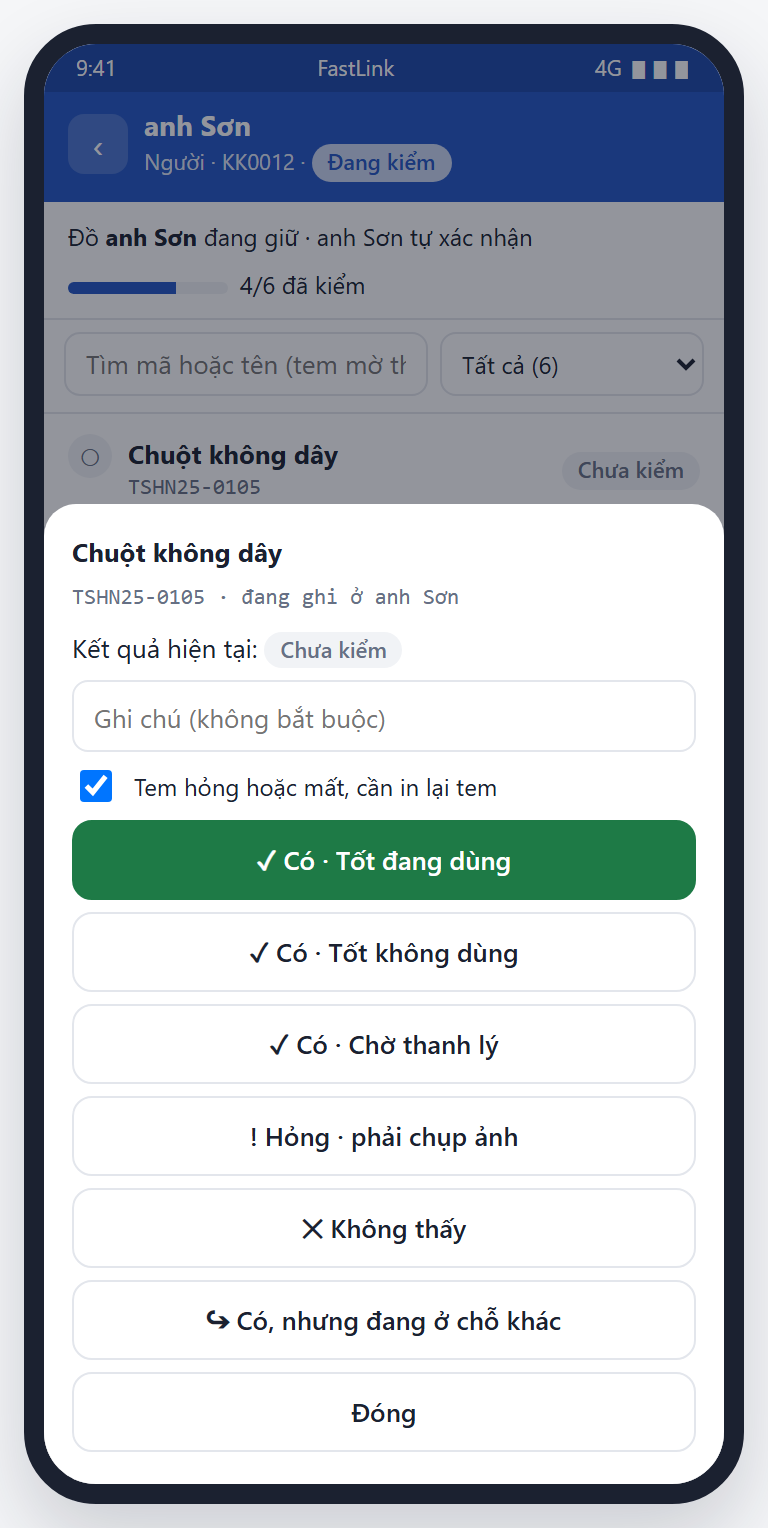
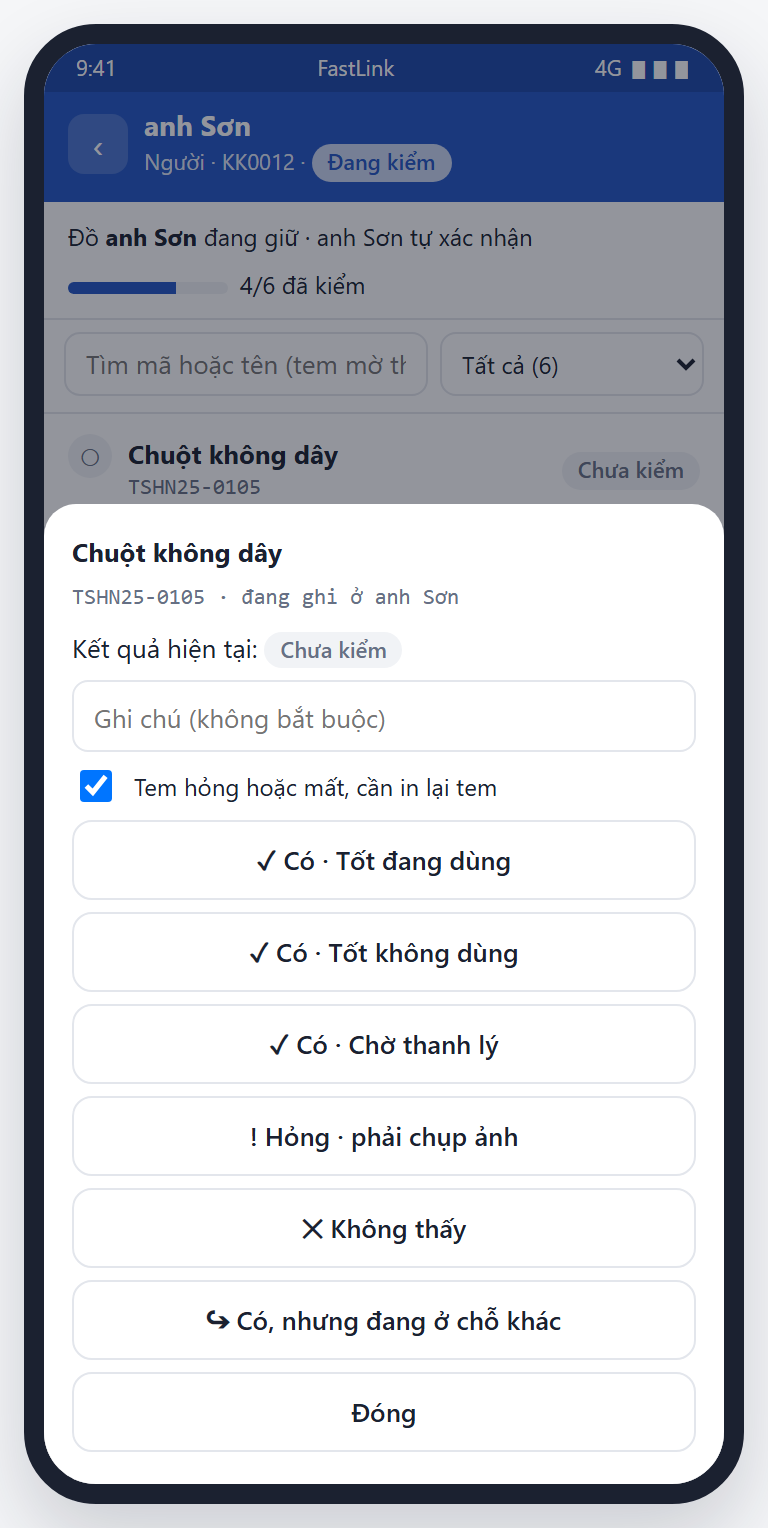
App minh hoạ: tô nút kết quả đang chọn của món
Mở một món thì nút khớp kết quả và tình trạng hiện tại được tô (có dấu ●),
món chưa kiểm thì không tô nút nào. Trước đây nút "Có · Tốt đang dùng" luôn tô
xanh dù món đang ở kết quả khác.

Changed region(s): [[0.0938, 0.5229, 0.9062, 0.6152]]

diff --git a/minh-hoa-tao-dot-kiem-ke.html b/minh-hoa-tao-dot-kiem-ke.html
@@ -141,6 +141,8 @@ h3{font-size:13px;margin:16px 0 8px}
 .ph-btn.okb{background:var(--ok);border-color:var(--ok);color:#fff}
 .ph-btn.pri:hover,.ph-btn.okb:hover{filter:brightness(1.08)}
 .ph-btn:disabled{opacity:.5;cursor:not-allowed;filter:none}
+.ph-btn.on{background:var(--primary);border-color:var(--primary);color:#fff}
+.ph-btn.on:hover{filter:brightness(1.08)}
 .ph-seg{display:flex;gap:4px;padding:8px 10px 6px;background:#fff;border-bottom:1px solid var(--border);overflow-x:auto}
 .ph-seg button{border:1px solid var(--border);background:#fff;border-radius:999px;padding:3px 10px;font-size:12px;cursor:pointer;white-space:nowrap}
 .ph-seg button.on{background:var(--primary);border-color:var(--primary);color:#fff}
@@ -997,14 +999,16 @@ function veApp() {
       + '<p class="hint">Bấm vào một món để đổi kết quả hoặc tình trạng.</p>';
     const i = monApp();
     if (i) {
-      const nut = (kq, tinh, txt, cls) => `<button class="ph-btn ${cls || ''}" data-act="a-kq" data-kq="${kq}" data-tinh="${tinh}">${txt}</button>`;
+      // nút khớp kết quả + tình trạng hiện tại của món thì được tô (đang chọn); món chưa kiểm thì không tô nút nào
+      const dangChon = (kq, tinh) => i.kq === kq && (kq !== 'CO' || (i.tinhTrang || 'Tốt đang dùng') === tinh);
+      const nut = (kq, tinh, txt) => { const on = dangChon(kq, tinh); return `<button class="ph-btn ${on ? 'on' : ''}" aria-pressed="${on}" data-act="a-kq" data-kq="${kq}" data-tinh="${tinh}">${on ? '● ' : ''}${txt}</button>`; };
       let noi = '';
       if (i.nguon === 'THEM') noi = `<div class="ph-sub">${esc(i.vet)}</div><p class="ph-sub" style="margin:0">Món thêm từ chỗ khác: chỉ ghi nhận, không đổi người giữ.</p>${sua ? '<button class="ph-btn" data-act="a-bo-them">Bỏ khỏi phần này (thêm nhầm)</button>' : ''}`;
       else if (!sua) noi = '<p class="ph-sub" style="margin:0">Phần đã xong, chỉ xem.</p>';
       else if (A.hong) noi = `<div class="ph-card bad" style="margin:0">Hỏng thì <b>bắt buộc chụp ảnh</b> trước khi lưu.</div><button class="ph-btn" data-act="a-chup">${A.anh ? '✓ Đã chụp 1 ảnh · chụp lại' : '📷 Chụp ảnh (giả lập)'}</button><button class="ph-btn" style="background:var(--bad);border-color:var(--bad);color:#fff" data-act="a-luu-hong" ${A.anh ? '' : 'disabled'}>Lưu: Hỏng</button><button class="ph-btn" data-act="a-hong-huy">← Chọn kết quả khác</button>`;
       else noi = `<input class="input" id="appGhiChu" value="${esc(A.ghiChu || '')}" placeholder="Ghi chú (không bắt buộc)" style="height:36px">
         <label style="display:flex;gap:8px;align-items:center;font-size:12px"><input type="checkbox" class="ck" id="appTem" ${(A.tem ?? i.tem) ? 'checked' : ''}> Tem hỏng hoặc mất, cần in lại tem</label>
-        ${nut('CO', 'Tốt đang dùng', '✓ Có · Tốt đang dùng', 'okb')}${nut('CO', 'Tốt không dùng', '✓ Có · Tốt không dùng')}${nut('CO', 'Chờ thanh lý', '✓ Có · Chờ thanh lý')}${nut('HONG', '', '! Hỏng · phải chụp ảnh')}${nut('KHONG_THAY', '', '✕ Không thấy')}${nut('SAI_CHO', '', '↪ Có, nhưng đang ở chỗ khác')}`;
+        ${nut('CO', 'Tốt đang dùng', '✓ Có · Tốt đang dùng')}${nut('CO', 'Tốt không dùng', '✓ Có · Tốt không dùng')}${nut('CO', 'Chờ thanh lý', '✓ Có · Chờ thanh lý')}${nut('HONG', '', '! Hỏng · phải chụp ảnh')}${nut('KHONG_THAY', '', '✕ Không thấy')}${nut('SAI_CHO', '', '↪ Có, nhưng đang ở chỗ khác')}`;
       sheet = `<div class="ph-sheet" data-act="a-sheet-bg"><div class="in">
         <b>${esc(i.ten)}</b><div class="ph-sub mono">${i.ma}${i.giu ? ' · đang ghi ở ' + esc(i.giu) : p.loai === 'Kho' ? ' · ở kho' : ''}</div>
         <div>Kết quả hiện tại: ${kqPill(i)}${i.tinhTrang && i.kq !== 'CHUA' ? ' · ' + esc(i.tinhTrang) : ''}${i.anh ? ' · 📷' : ''}${i.tem ? ' · <span class="pill p-warn">in lại tem</span>' : ''}</div>
